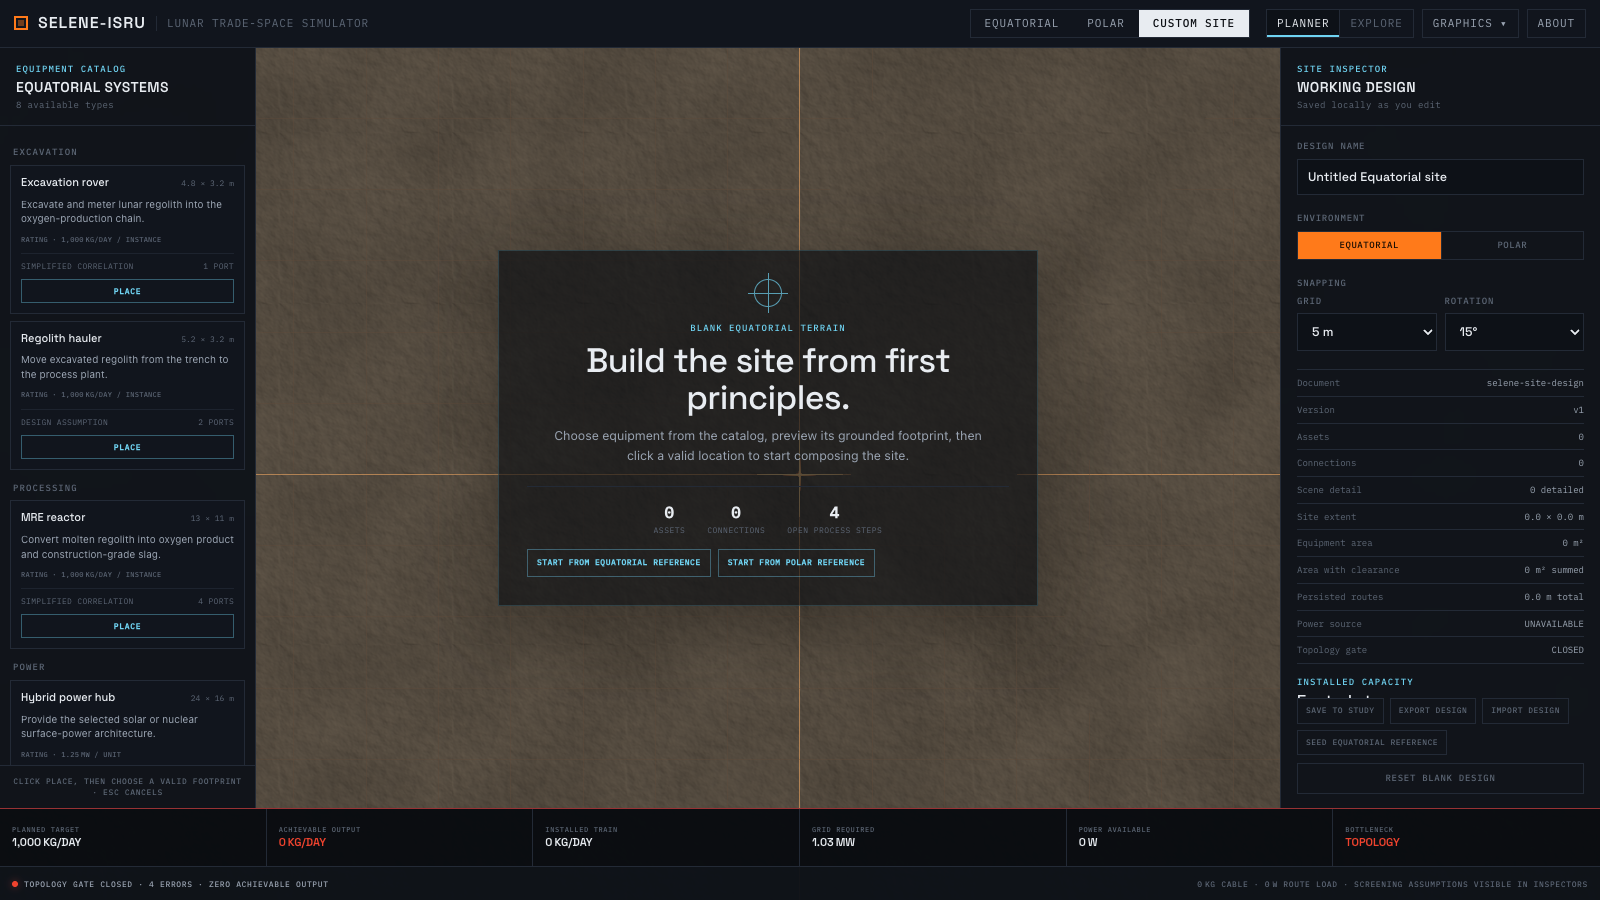
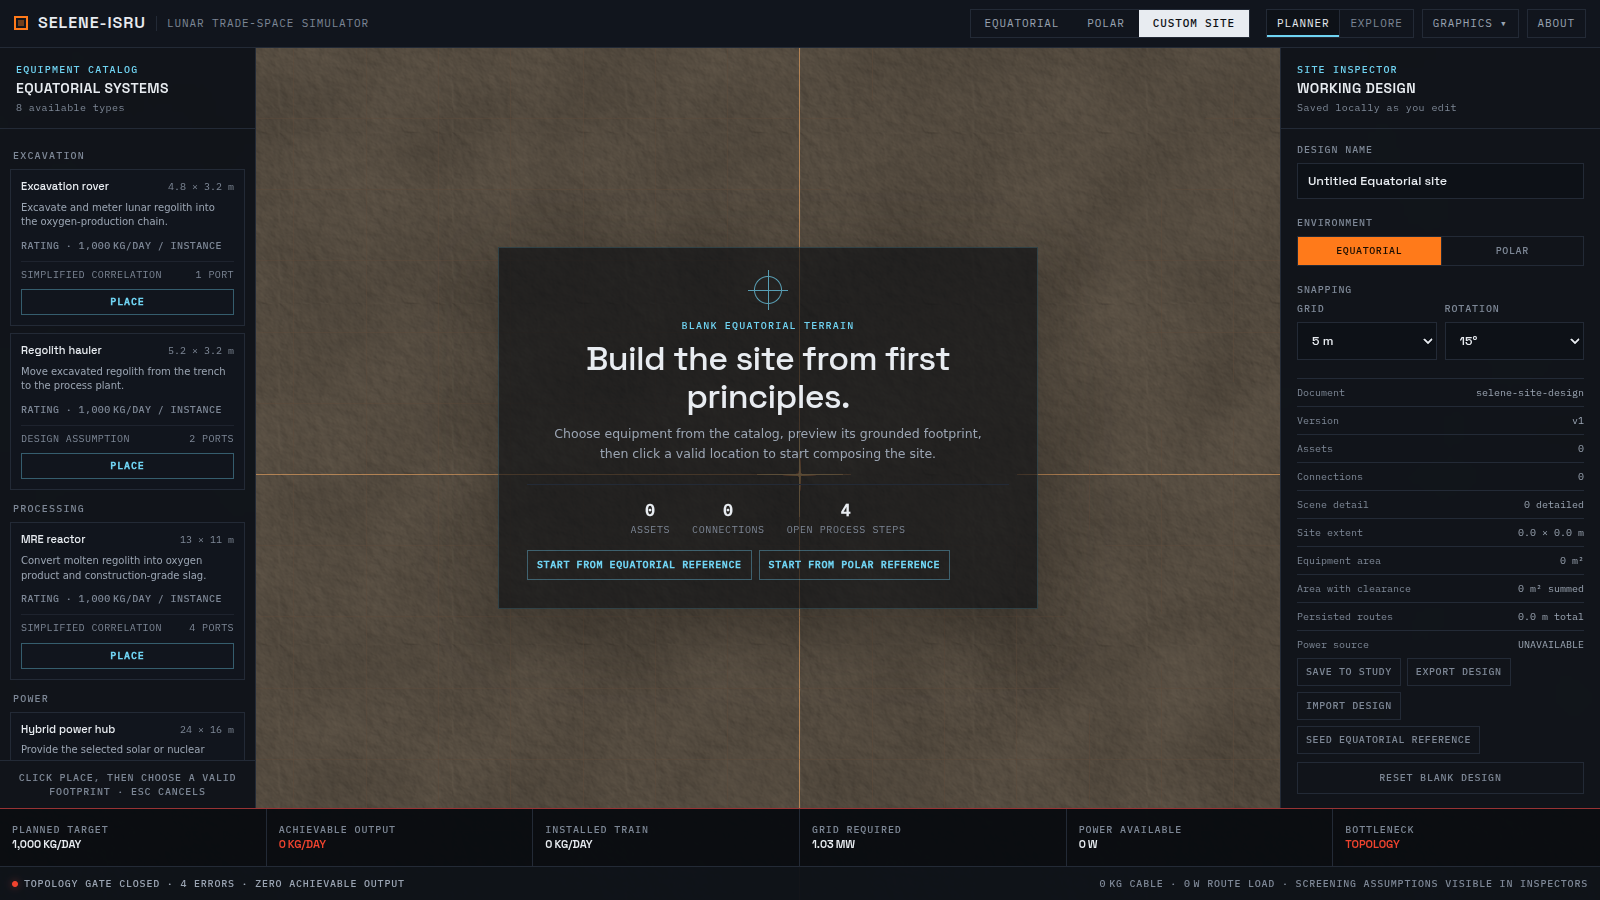
Refresh Custom Site evidence and document the new conventions
The contrast token and the 10px type floor are visible in Custom Site, so
the release screenshots and performance evidence are regenerated with
`pnpm evidence:custom` against a production preview. All smoke checks pass.

The evidence was re-measured in a different container (Chrome 141, also
headless SwiftShader), so its timings differ from the previous sample.
Running the verify-only flow against main and this branch in that same
container gave matching timings: import 327-361 ms on main, 293-394 ms
here; first placement about 140 ms on both. The difference is the
environment, not these changes.

CLAUDE.md now covers the type floor and contrast token, the shared
dialog/menu keyboard hooks, the intro's localStorage key and
capture-script suppression, the measured input-activity tags (and why not
to add static lists), and the new tests in the testing map.
docs/screenshots/first-impressions holds the review captures for this
work.

Claude-Session: https://claude.ai/code/session_01QVL7LU3naQKcokJEFsQ9hd

diff --git a/CLAUDE.md b/CLAUDE.md
@@ -333,6 +333,15 @@ Evidence: [`docs/custom-site-release.md`](docs/custom-site-release.md).
   them.
 - **Styling**: CSS custom properties in `src/styles/tokens.css`
   (`--bg-space`, `--cryo`, `--caution`, …). Use tokens, not literal hex.
+  Type sizes come from the `--fs-*` scale with `--fs-10` as the floor, and
+  `--text-low` is the dimmest text colour (5.0:1 on `--bg-panel`, WCAG AA);
+  don't reintroduce 7–9px text or a dimmer grey. `css-tokens.test.ts` fails
+  on any `var(--x)` without a fallback whose property is never defined.
+- **Overlays use `src/lib/a11y.ts`**: `useDialog` (Escape closes the topmost
+  surface only, focus moves in and returns to the opener, `modal` traps Tab)
+  and `useMenu` (outside click/Escape close, arrow keys, focus return). A new
+  dialog, popover, panel, or dropdown should use these rather than its own
+  keydown listener, or Escape will close two surfaces at once.
 - **Mobile** is deliberately review-only for Custom Site — select and inspect,
   no precision editing UI that the touch target cannot honor.
 - **localStorage keys use two different compatibility strategies** — don't
@@ -340,8 +349,10 @@ Evidence: [`docs/custom-site-release.md`](docs/custom-site-release.md).
   - *Versioned, migrate on a schema change*: `selene-isru.study-scenarios.v2`,
     `selene-isru.custom-site-draft.v1`, and
     `selene-isru.custom-site-draft-backup.v1` (a separate key, *not* a
-    `.backup` suffix — see `CUSTOM_SITE_DRAFT_BACKUP_KEY`). Bump the suffix and
-    migrate; never silently reinterpret data under an existing version.
+    `.backup` suffix — see `CUSTOM_SITE_DRAFT_BACKUP_KEY`), and the
+    first-visit flag `selene-isru.intro-dismissed.v1` (bump it to show a
+    substantially changed intro again). Bump the suffix and migrate; never
+    silently reinterpret data under an existing version.
   - *Unversioned, tolerant read*: `selene.graphics` carries no version and
     stays compatible by parsing whatever it finds through
     `normalizeGraphicsPrefs`, filling missing fields from
@@ -352,6 +363,9 @@ Evidence: [`docs/custom-site-release.md`](docs/custom-site-release.md).
 - `window.__SELENE_DEMO__` (set up in `Scene.tsx`) is the capture bridge the
   `scripts/capture-*.mjs` demos drive. Changing it means re-recording the
   cinematics.
+- The first-visit `IntroCard` never renders when `navigator.webdriver` is set,
+  which keeps every puppeteer capture's first frame unchanged. To capture the
+  intro itself, override `navigator.webdriver` before navigation.
 - App tsconfig is strict with `noUnusedLocals`/`noUnusedParameters`; the app
   build runs `tsc --noEmit` before `vite build`.
 
@@ -374,6 +388,20 @@ inherits **generic fallback evidence**. If the parameter needs specific
 validity limits, applicability, or a source link the regexes won't match, add a
 `KEY_OVERRIDES` entry. Numeric claims in Brief, Conserve, and Trade Study
 should be traceable to the actual engine run, not to hard-coded copy.
+
+**Whether an input currently matters is measured, not declared.**
+`src/analysis/activity.ts` runs the engine at the input's min and max with
+everything else held and compares every result field: the rail then tags the
+row CHECKS (only subsystem diagnostics move) or NO EFFECT, and the evidence
+drawer's "Effect here" line names what moves. Don't add static
+"diagnostic" lists — the one this replaced had drifted. Inputs that
+structurally cannot apply (the other site's power inputs, `xO2` while the
+oxide model is on, custom-cryogen properties) are hidden by
+`railParamsForGroup` / `SITE_ONLY_PARAMS` instead, and
+`input-activity.test.ts` checks that every hidden input really is inert where
+it is hidden. A visible input tagged NO EFFECT at the reference cases is a
+signal worth investigating: either it is conditional by design, or the model
+is not using it.
 
 ### 8. Assets
 
@@ -398,6 +426,10 @@ in `assets/ASSET_LICENSES.md`.
 | Aging slopes ↔ crossover | `packages/engine/test/power-slopes.test.ts` |
 | Store clamping invariant, URL round-trip, export | `store.test.ts`, `url.test.ts`, `study-export.test.ts` |
 | Custom Site UI/editor/perf | `custom-site-*.test.*` |
+| Input activity tags, hidden-input guard | `input-activity.test.ts` |
+| Analysis grids inside engine bounds, sensitivity clamping, delta tone | `analysis-tools.test.ts` |
+| Rail search/filter/reset, KPI summary, intro | `control-rail.test.tsx`, `case-summary.test.ts`, `intro-card.test.tsx` |
+| Dialog/menu keyboard contract, CSS variables | `keyboard-a11y.test.tsx`, `css-tokens.test.ts` |
 
 ## CI and deploy
 
